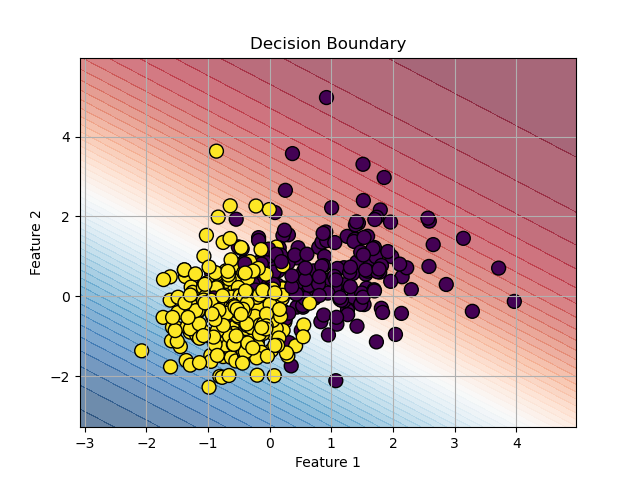
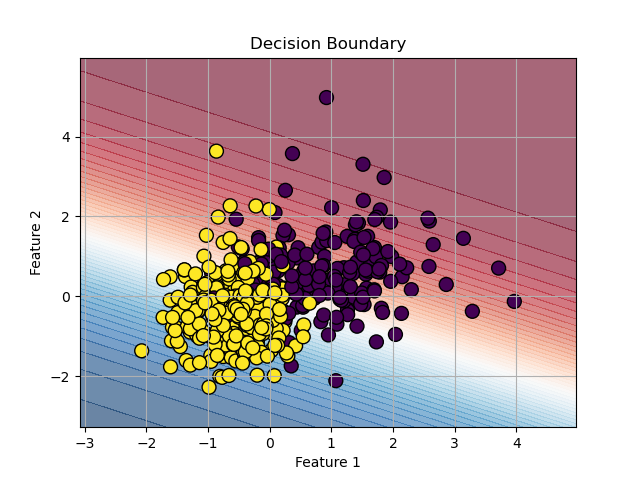
manba out

diff --git a/logistic_regression_minibatch.py b/logistic_regression_minibatch.py
@@ -10,6 +10,12 @@ X = data.data # 特征矩阵，形状 (n_samples, n_features)
 y = data.target # 标签向量，0/1
 
 #数据处理（归一化，分为minibatch）
+alpha = 0.4
+beta = 0.1
+
+def loss(X,y,w):
+    return -np.mean(y * np.log(np.clip(f(X,w), 1e-15, 1-1e-15)) + (1-y) * np.log(np.clip(1-f(X,w), 1e-15, 1-1e-15)))
+
 
 
 X_train_1 = X[:int(len(X)*0.8)]
@@ -30,7 +36,7 @@ def f(X,w):
 def gradient(X,y,w):
     return X.T @ (f(X,w) - y)/len(y)
 
-def train(X,y,lr=0.01,epochs=110,batch_size=32,seed = 40):
+def train(X,y,lr=0.1,epochs=110,batch_size=32,seed = 40):
     n, d = X.shape
     rng = np.random.default_rng(seed) #这是初始化随机种子
     w = np.zeros(d)
@@ -46,9 +52,12 @@ def train(X,y,lr=0.01,epochs=110,batch_size=32,seed = 40):
             Xb = X_shuffled[i:i+batch_size]
             yb = y_shuffled[i:i+batch_size]
             g = gradient(Xb,yb,w)
-            w -= lr * g
+            if loss(Xb,yb,w-lr*g) > loss(Xb,yb,w) - alpha*lr*np.dot(g,g):
+                lr = lr*beta
+            w = w - lr*g
 
         losses.append(-np.mean(y * np.log(np.clip(f(X,w), 1e-15, 1-1e-15)) + (1-y) * np.log(np.clip(1-f(X,w), 1e-15, 1-1e-15))))
+        
     return w, losses
 
 w, losses = train(X_train,y_train)
